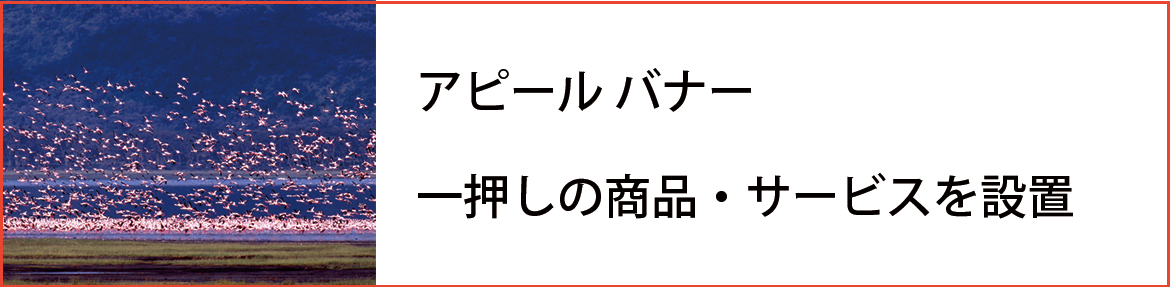
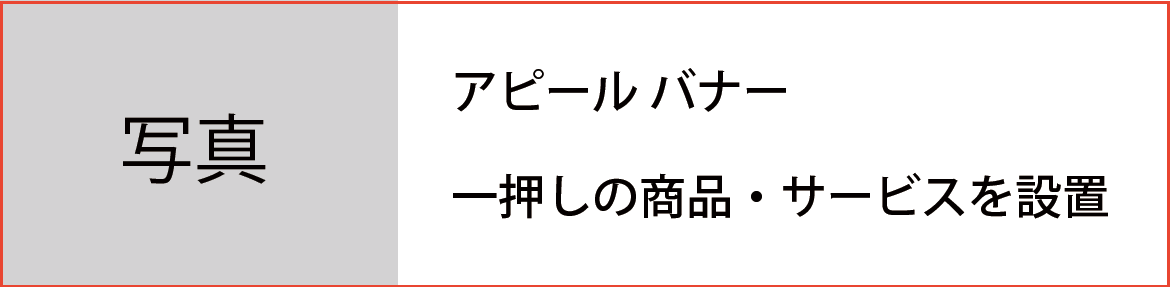
アピールバナー

diff --git a/wp-content/themes/flamingos-chainstore-unite/style.css b/wp-content/themes/flamingos-chainstore-unite/style.css
@@ -1440,11 +1440,6 @@ li.children:before {
 
 /* Extra large devices (large desktops, 1200px and up)*/
 @media (min-width: 1200px) {  .tescol2{height: 235px;} }
-/*マウスオーバーで半透明 *******/
-img:hover {
-   opacity: 0.5;
-}
-/*マウスオーバーで半透明 *******/
 /*****************************
    事例紹介
  *****************************/

diff --git a/wp-content/themes/flamingos-chainstore-unite/ap-bana.php b/wp-content/themes/flamingos-chainstore-unite/ap-bana.php
@@ -4,7 +4,7 @@
 	</a>
 </div>
 <div class="banapadding">
-	<a href="※">
-		<img src="<?php echo get_stylesheet_directory_uri() ?>/images/bana-mid.png" alt=""/>
+	<a href="https://ichigo-branding.com/semi/ameblo-2/">
+		<img src="<?php echo get_stylesheet_directory_uri() ?>/images/bana-mid2.png" alt=""/>
 	</a>
 </div>
